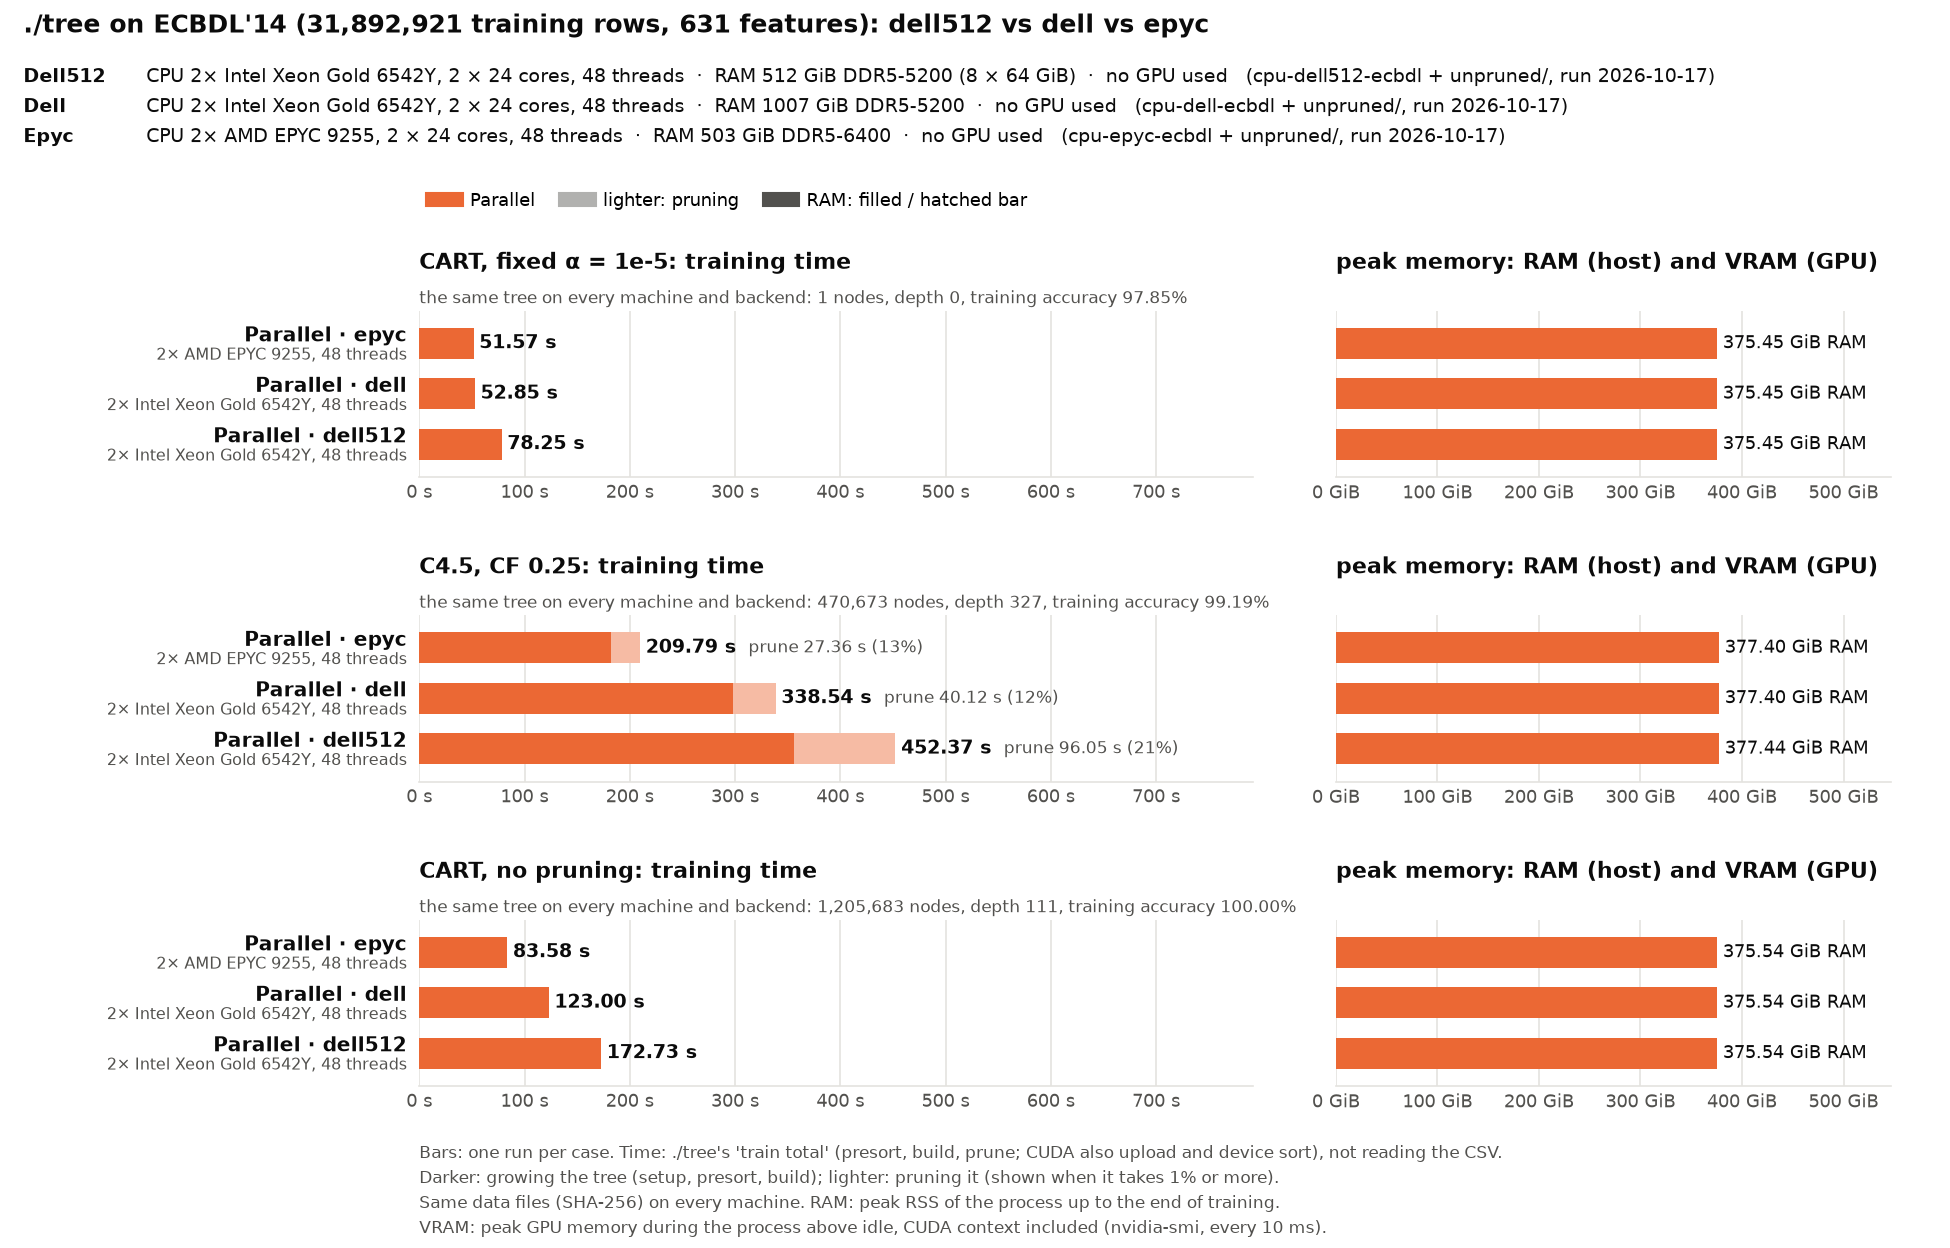
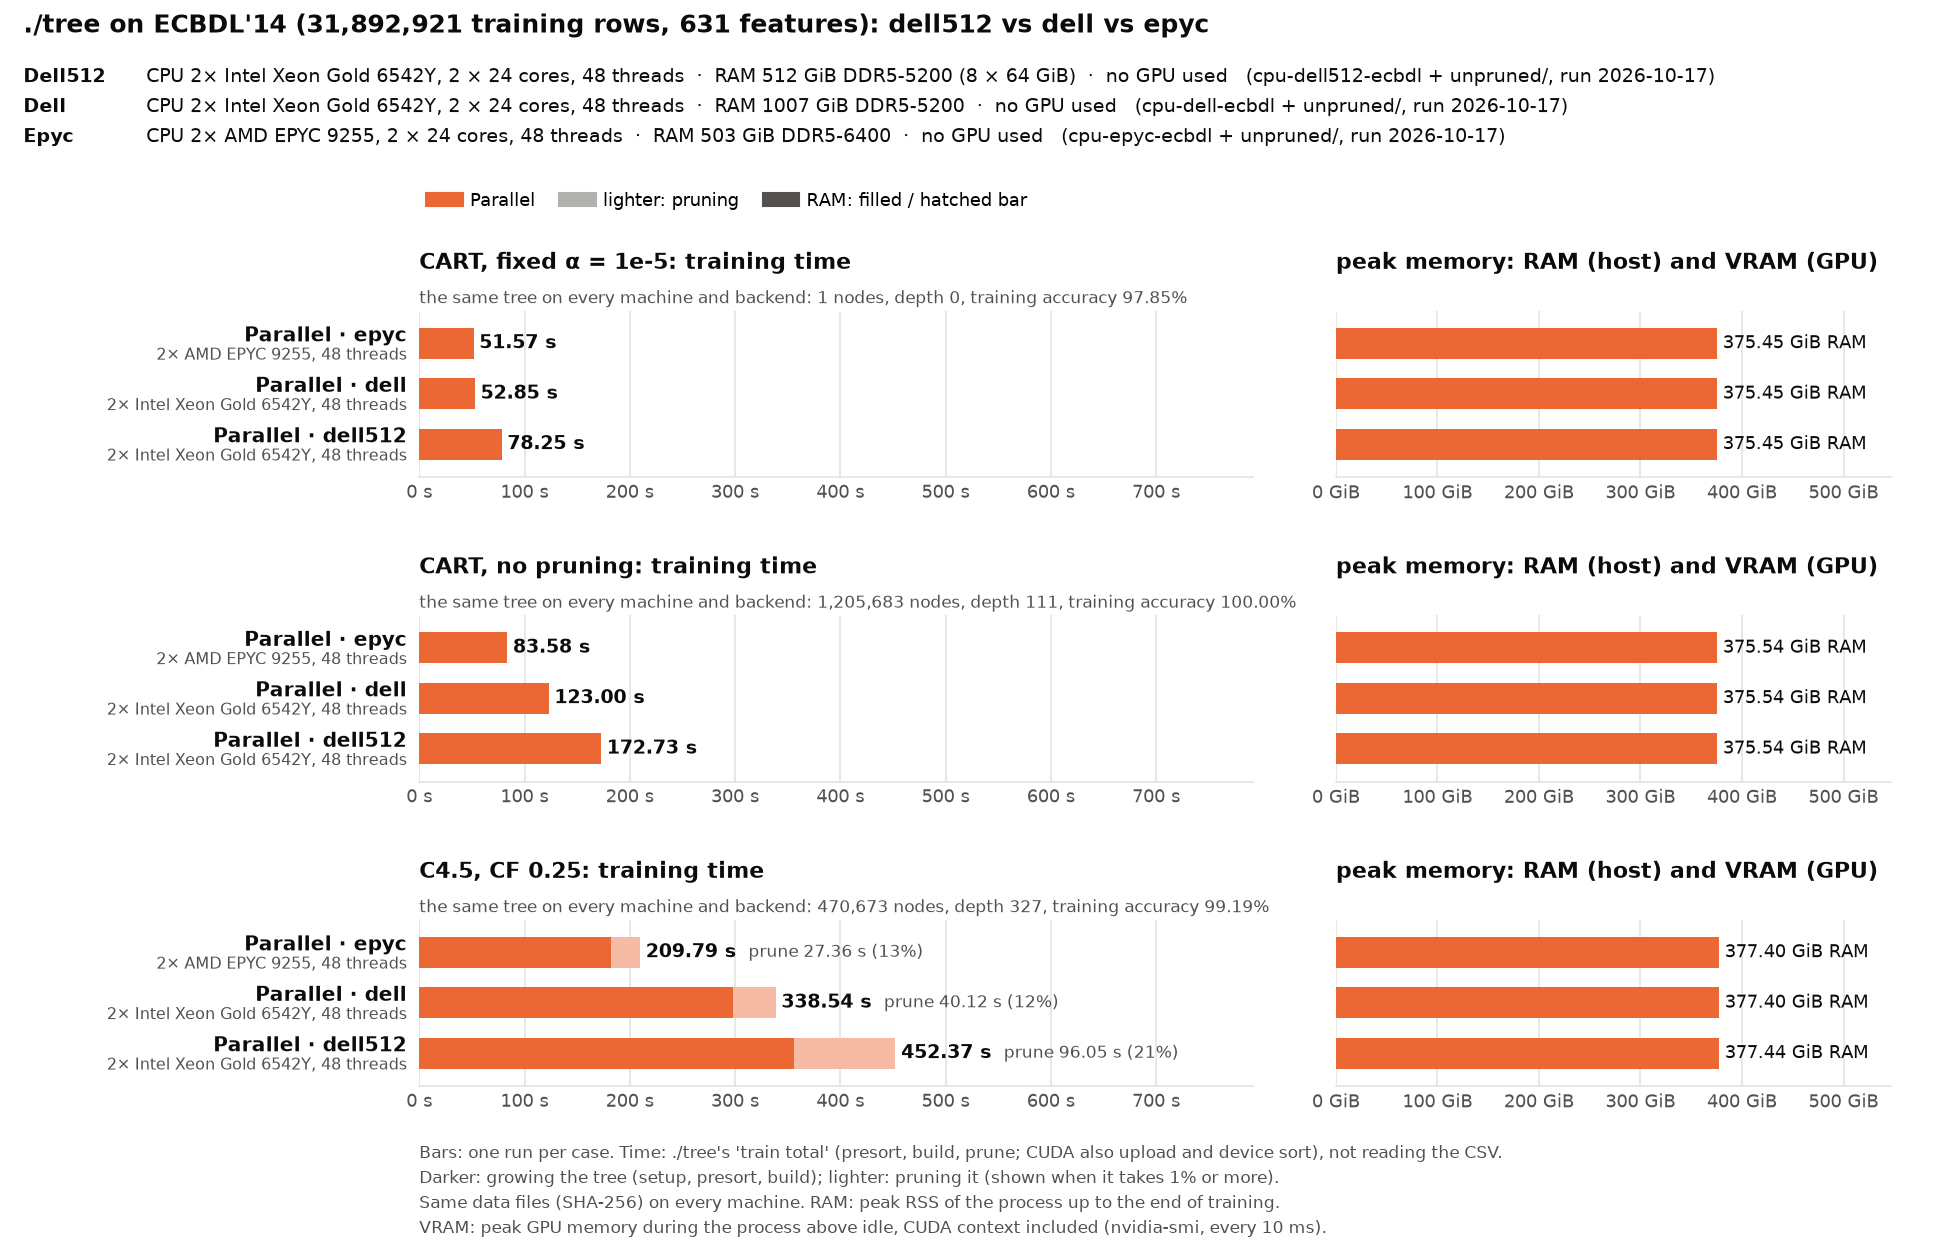
ECBDL charts and tables: CART, then CART unpruned, then C4.5

diff --git a/bench/results/cluster-ecbdl/BENCHMARK.md b/bench/results/cluster-ecbdl/BENCHMARK.md
@@ -21,10 +21,10 @@ bench/cluster/submit.sh -d ecbdl cpu-dell512-ecbdl
 bench/cluster/submit.sh -d ecbdl_6m $P cpu-dell512-ecbdl_6m
 bench/cluster/submit.sh -d ecbdl $P cpu-dell512-ecbdl
 d=bench/results/cluster-ecbdl                            # the charts
-bench/.venv/bin/python bench/machines_chart.py --protocols cart_alpha_nodepth,c45,cart_full_nodepth \
+bench/.venv/bin/python bench/machines_chart.py --protocols cart_alpha_nodepth,cart_full_nodepth,c45 \
     --more $d/unpruned $d/cuda-hopper-ecbdl_6m $d/cuda-ampere-ecbdl_6m $d/cpu-epyc-ecbdl_6m \
     $d/cpu-dell-ecbdl_6m $d/cpu-dell512-ecbdl_6m --out $d/chart.png
-bench/.venv/bin/python bench/machines_chart.py --protocols cart_alpha_nodepth,c45,cart_full_nodepth \
+bench/.venv/bin/python bench/machines_chart.py --protocols cart_alpha_nodepth,cart_full_nodepth,c45 \
     --more $d/unpruned $d/cpu-epyc-ecbdl $d/cpu-dell-ecbdl $d/cpu-dell512-ecbdl --out $d/chart-full.png
 ```
 
@@ -42,20 +42,20 @@ The dataset is ECBDL'14 (protein contact-map prediction, the GECCO 2014 big data
 
 Each bar is ./tree's training time (`train total`: GPU setup, presort, build and pruning, not reading the CSV). Three protocols, one section each:
 - `cart_alpha_nodepth`: CART pruned at the fixed α = 1e-5, no depth limit.
-- `c45`: C4.5, CF 0.25. A bar's lighter part is the pruning.
 - `cart_full_nodepth`: CART grown to pure leaves, no pruning, no depth limit.
+- `c45`: C4.5, CF 0.25. A bar's lighter part is the pruning.
 
 ## 6M-row sample
 
 ![ECBDL'14 6M sample on five mordor3 nodes](chart.png)
 
-| | CART | C4.5 (of which pruning) | CART unpruned | RAM CART / C4.5 / unpruned | VRAM CART / C4.5 / unpruned |
+| | CART | CART unpruned | C4.5 (of which pruning) | RAM CART / unpruned / C4.5 | VRAM CART / unpruned / C4.5 |
 |---|--:|--:|--:|--:|--:|
-| CUDA · hopper (H100 PCIe + 32 threads) | **4.08 s** | **13.92 s** (3.78 s) | **7.62 s** | 17.6 / 43.0 / 42.8 GiB | 57.3 / 71.5 / 57.4 GiB |
-| CUDA · ampere (A100 80GB PCIe + 48 threads) | 5.77 s | 20.46 s (6.43 s) | 11.00 s | 17.6 / 43.1 / 42.8 GiB | 57.2 / 71.4 / 57.4 GiB |
-| Parallel · epyc (EPYC 9255, 48 threads) | 7.35 s | 22.70 s (2.00 s) | 12.94 s | 70.7 / 71.3 / 70.7 GiB | – |
-| Parallel · dell (Xeon 6542Y, 48 threads) | 11.97 s | 34.46 s (3.33 s) | 19.44 s | 70.7 / 71.3 / 70.7 GiB | – |
-| Parallel · dell512 (the same, half the memory channels) | 15.79 s | 42.97 s (5.95 s) | 25.68 s | 70.7 / 71.2 / 70.7 GiB | – |
+| CUDA · hopper (H100 PCIe + 32 threads) | **4.08 s** | **7.62 s** | **13.92 s** (3.78 s) | 17.6 / 42.8 / 43.0 GiB | 57.3 / 57.4 / 71.5 GiB |
+| CUDA · ampere (A100 80GB PCIe + 48 threads) | 5.77 s | 11.00 s | 20.46 s (6.43 s) | 17.6 / 42.8 / 43.1 GiB | 57.2 / 57.4 / 71.4 GiB |
+| Parallel · epyc (EPYC 9255, 48 threads) | 7.35 s | 12.94 s | 22.70 s (2.00 s) | 70.7 / 70.7 / 71.3 GiB | – |
+| Parallel · dell (Xeon 6542Y, 48 threads) | 11.97 s | 19.44 s | 34.46 s (3.33 s) | 70.7 / 70.7 / 71.3 GiB | – |
+| Parallel · dell512 (the same, half the memory channels) | 15.79 s | 25.68 s | 42.97 s (5.95 s) | 70.7 / 70.7 / 71.2 GiB | – |
 
 - **The H100 is 1.8× (CART), 1.6× (C4.5) and 1.7× (unpruned CART) faster than epyc**, less than on airline (6.6× for pruned CART): the GPU has no room for the mirror of the CPU hand-off (another 8 bytes per value), so its copies to the host no longer overlap the next levels, and C4.5's pruning on the host CPU is 27–31% of a CUDA run.
 - **VRAM is as computed from the allocations:** two copies of the presorted columns (16 bytes per value, 56.4 GiB) plus the CUDA context and per-level arrays; C4.5 also keeps the raw values for its pruning (4 bytes per value, 14.1 GiB). C4.5 uses 71.5 of the 80 GB.
@@ -65,11 +65,11 @@ Each bar is ./tree's training time (`train total`: GPU setup, presort, build and
 
 ![full ECBDL'14 on epyc, dell and dell512](chart-full.png)
 
-| | CART | C4.5 (of which pruning) | CART unpruned | RAM CART / C4.5 / unpruned |
+| | CART | CART unpruned | C4.5 (of which pruning) | RAM CART / unpruned / C4.5 |
 |---|--:|--:|--:|--:|
-| Parallel · epyc (EPYC 9255, 48 threads) | **51.57 s** | **209.79 s** (27.36 s) | **83.58 s** | 375.5 / 377.4 / 375.5 GiB |
-| Parallel · dell (Xeon 6542Y, 48 threads) | 52.85 s | 338.54 s (40.12 s) | 123.00 s | 375.5 / 377.4 / 375.5 GiB |
-| Parallel · dell512 (the same, half the memory channels) | 78.25 s | 452.37 s (96.05 s) | 172.73 s | 375.4 / 377.4 / 375.5 GiB |
+| Parallel · epyc (EPYC 9255, 48 threads) | **51.57 s** | **83.58 s** | **209.79 s** (27.36 s) | 375.5 / 375.5 / 377.4 GiB |
+| Parallel · dell (Xeon 6542Y, 48 threads) | 52.85 s | 123.00 s | 338.54 s (40.12 s) | 375.5 / 375.5 / 377.4 GiB |
+| Parallel · dell512 (the same, half the memory channels) | 78.25 s | 172.73 s | 452.37 s (96.05 s) | 375.4 / 375.5 / 377.4 GiB |
 
 - **About 20 bytes per value of RAM** (403 GB): 4 for the loaded data, 8 for the presorted columns, 8 for their second copy. It fits in the 512 GB of epyc1 and dell2.
 - **epyc is 1.5–1.6× faster than dell** on C4.5 and unpruned CART, as on the 6M sample. Pruned CART is the exception (51.6 against 52.9 s): epyc's presort took 21.2 s there (see below).
